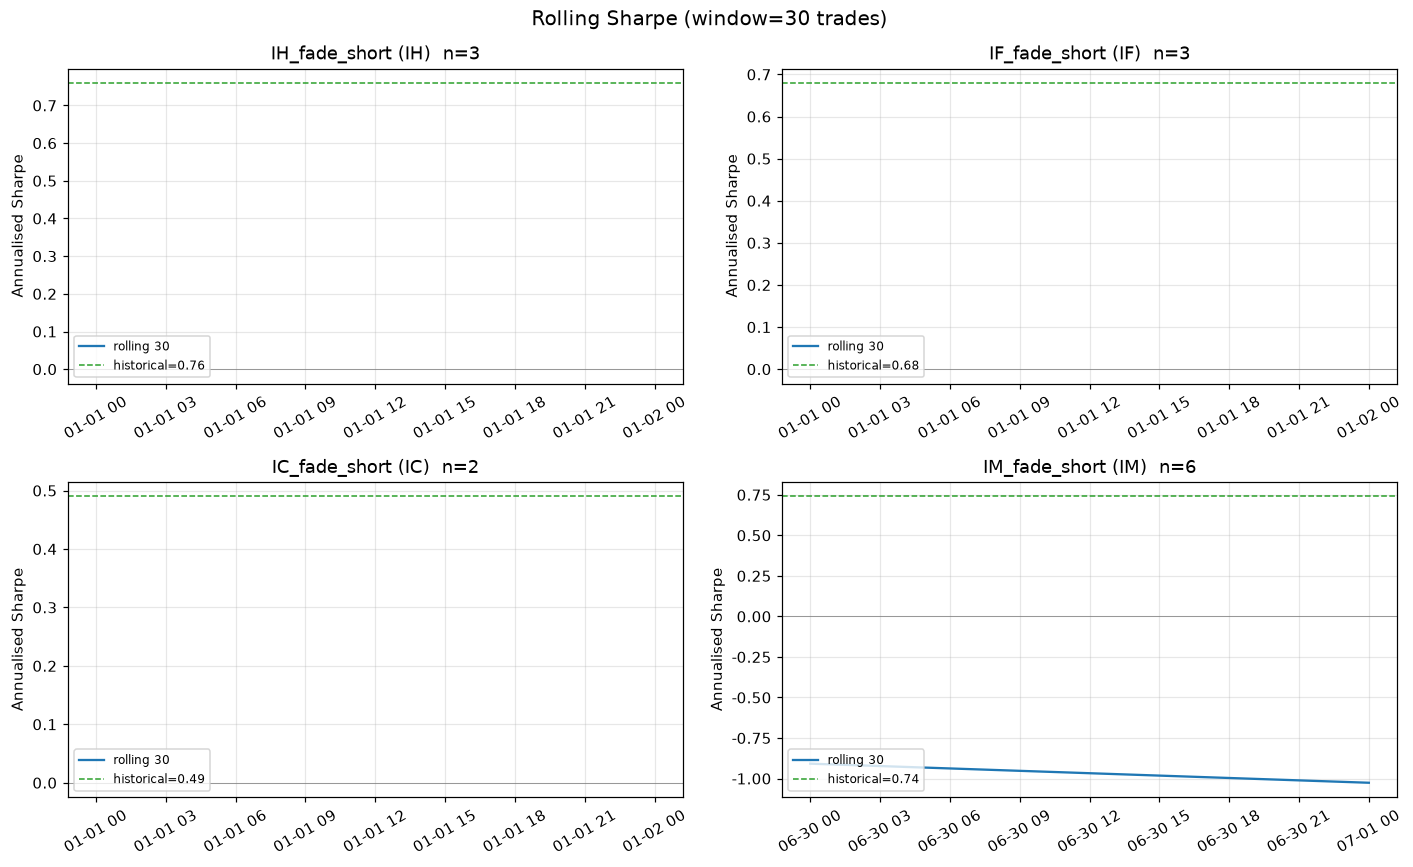
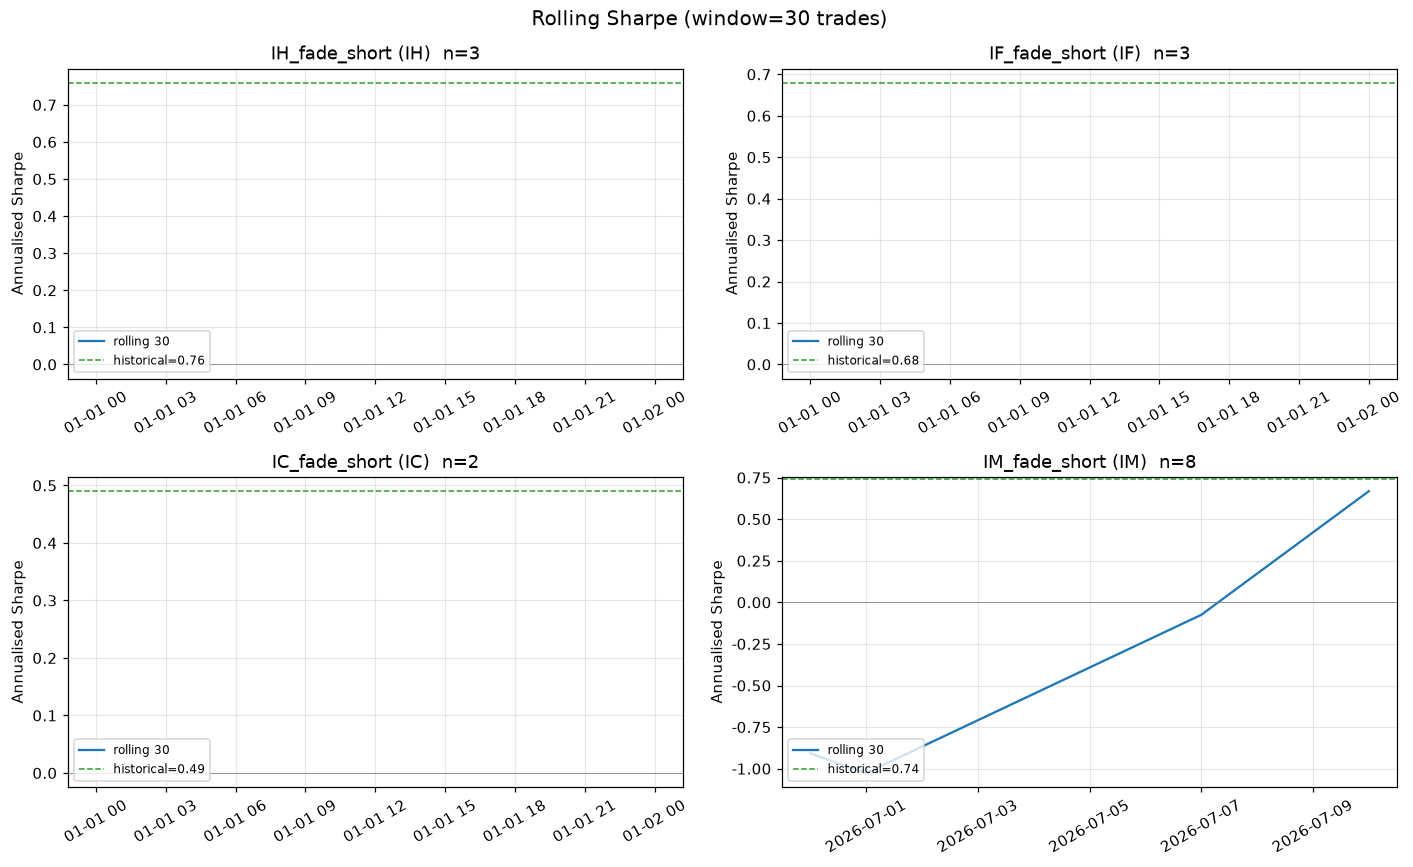
Weekly review 2026-07-10 (alerts=0)

diff --git a/weekly_review.md b/weekly_review.md
@@ -1,4 +1,4 @@
-## Weekly Review — 2026-07-03
+## Weekly Review — 2026-07-10
 
 _Window: rolling Sharpe over last 30 trades; loss-streak window 10 trades; decay alert if realised < 50% of historical_
 
@@ -10,6 +10,6 @@ _Window: rolling Sharpe over last 30 trades; loss-streak window 10 trades; decay
 | IH_fade_short | 3 | 33.3% | -61.6 | -1.724 | — | 0.76 | -31,676 | -31,676 | — |
 | IF_fade_short | 3 | 33.3% | -57.1 | -2.536 | — | 0.68 | -24,399 | -24,399 | — |
 | IC_fade_short | 2 | 50.0% | -42.0 | -2.148 | — | 0.49 | -13,800 | -13,800 | — |
-| IM_fade_short | 6 | 50.0% | -25.4 | -1.026 | -1.026 | 0.74 | -23,973 | -23,973 | — |
+| IM_fade_short | 8 | 62.5% | +16.2 | 0.668 | 0.668 | 0.74 | +22,181 | +22,181 | — |
 
 _Charts: rolling_sharpe.png + cumulative_pnl.png in repo_
